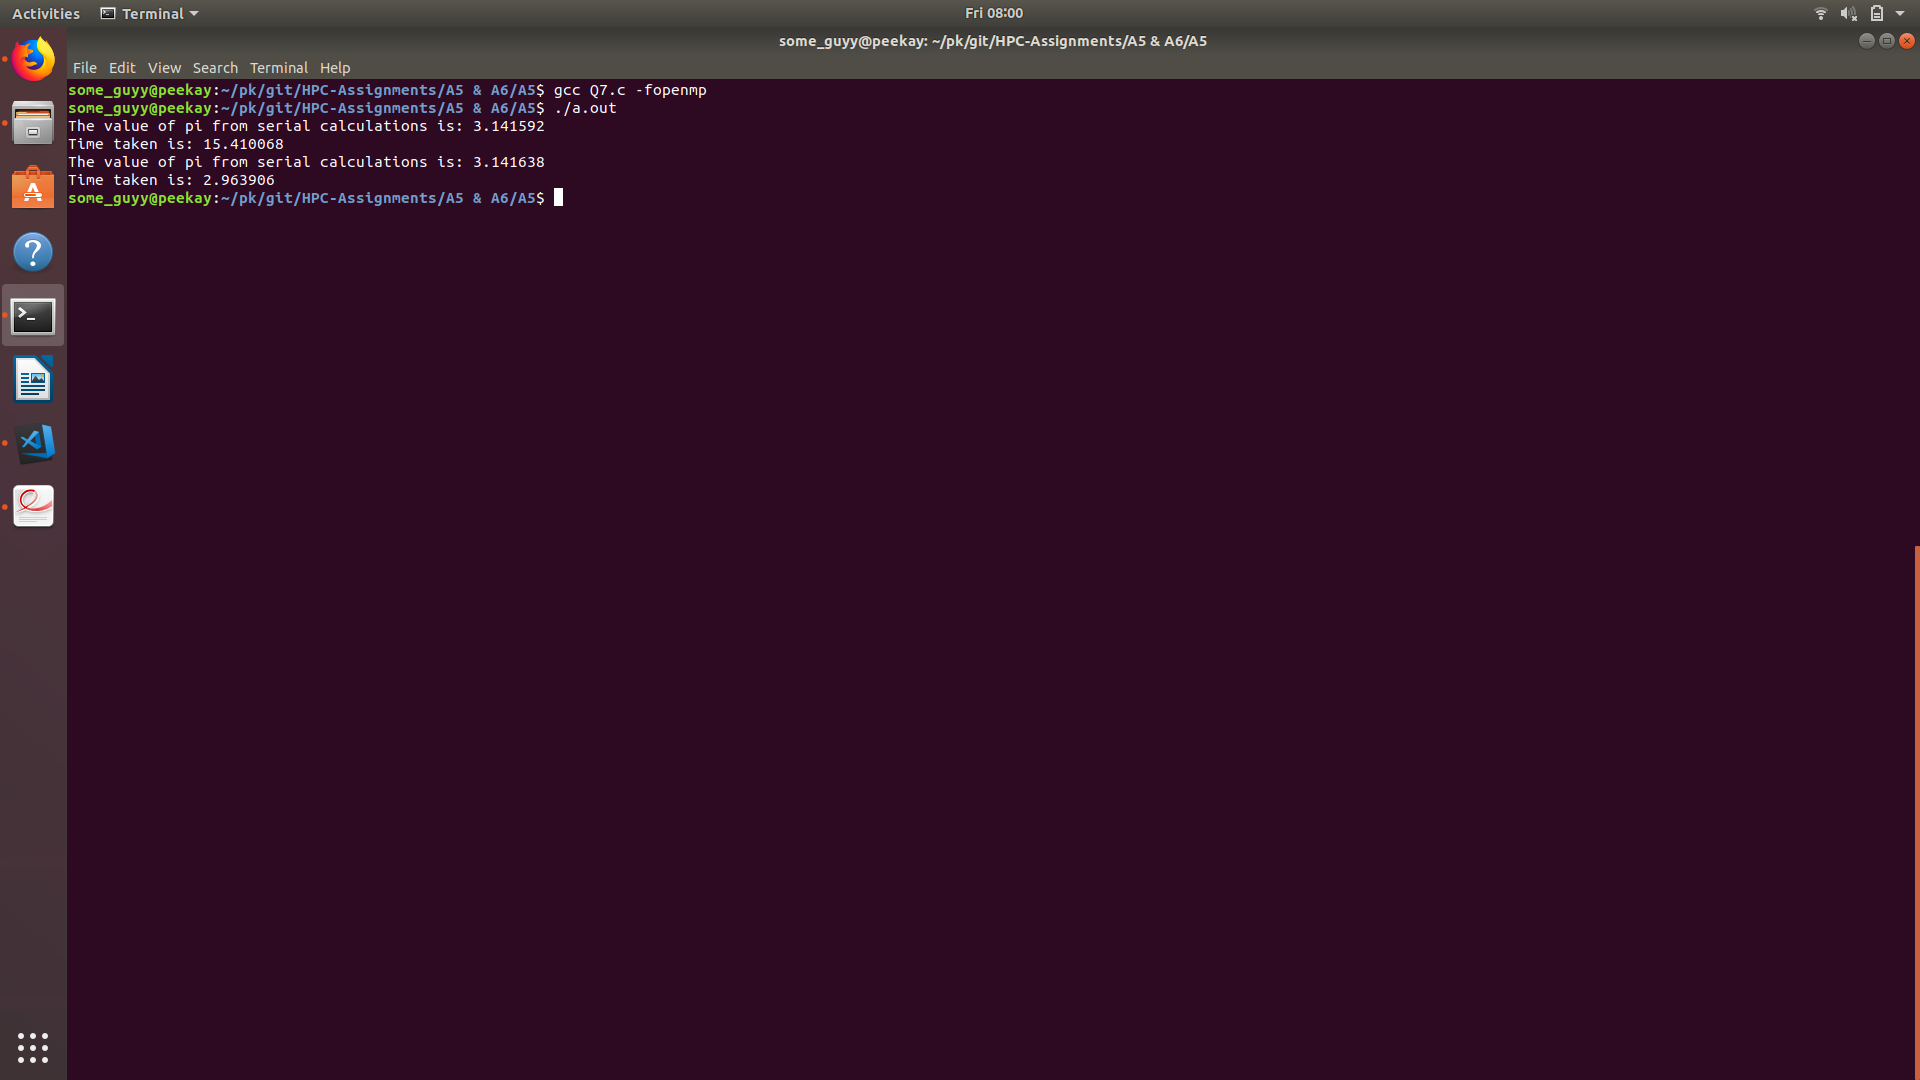
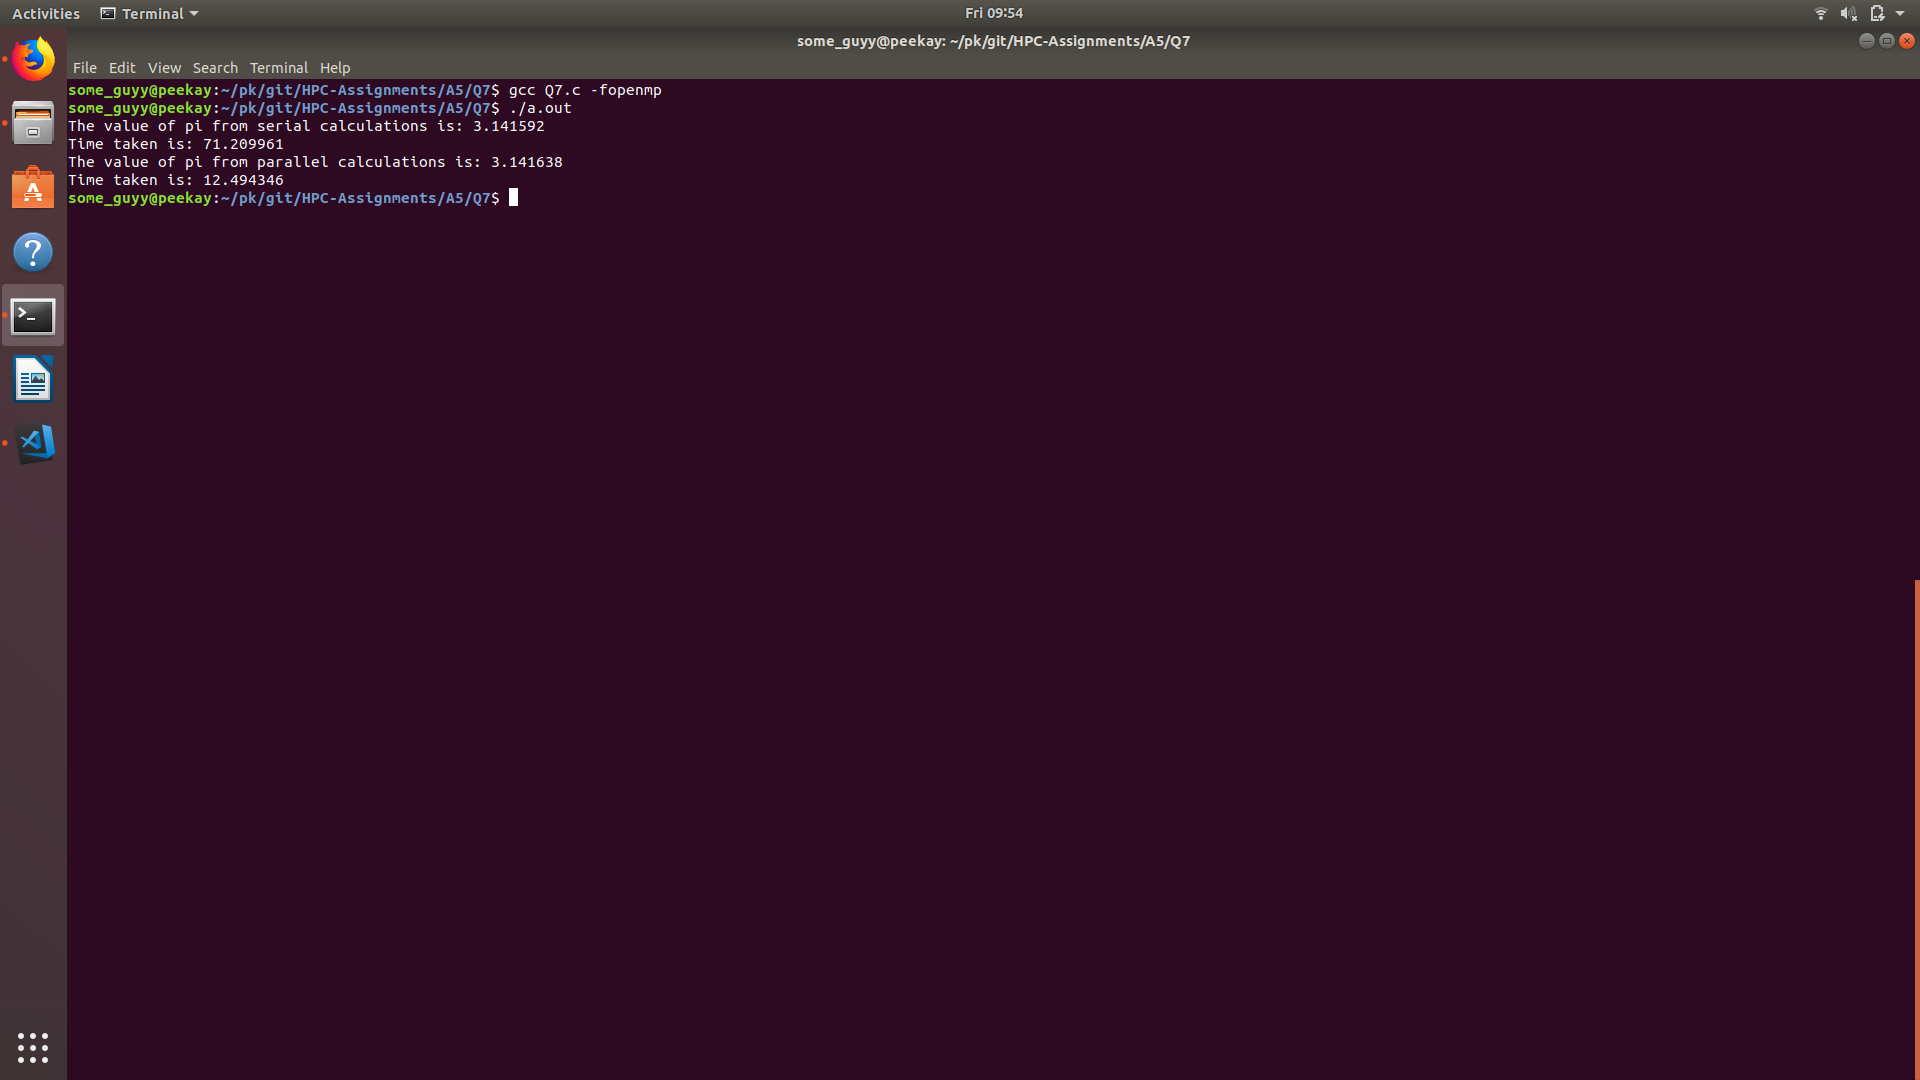
A5 done, submitted

Changed region(s): [[0.0938, 0.0611, 0.375, 0.2139], [0.4062, 0.0306, 0.625, 0.0611], [0.0, 0.4278, 0.0312, 0.4889]]

diff --git a/A5/Q7/Q7.c b/A5/Q7/Q7.c
@@ -22,7 +22,7 @@ void main()
     start = omp_get_wtime();
     double pi_parallel = parallel();
     end = omp_get_wtime();
-    printf("The value of pi from serial calculations is: %f\nTime taken is: %lf\n",pi_parallel,end-start);
+    printf("The value of pi from parallel calculations is: %f\nTime taken is: %lf\n",pi_parallel,end-start);
 }
 double serial()
 {
